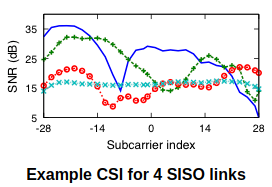
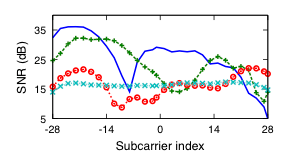
add resized images

diff --git a/index.html b/index.html
@@ -63,7 +63,8 @@
                     </div>
                 </div>
                 <hr>
-                <p style="line-height:25px;color: #000000">I am a senior student at <a href="http://www.tsinghua.edu.cn/publish/eeen/index.html" target="_blank">Electronic Engineering</a>, Tsinghua University. Currently, I am a student intern in <a href="http://biorobotics.ri.cmu.edu/index.php" target="_blank">biorobotics lab</a>, Carnegie Mellon University.<br /></p> 
+                <p style="line-height:25px;color: #000000">I am a senior student at <a href="http://www.tsinghua.edu.cn/publish/eeen/index.html" target="_blank">Electronic Engineering</a>, Tsinghua University. Currently, I am a student intern in <a href="http://biorobotics.ri.cmu.edu/index.php" target="_blank">biorobotics lab</a>, Carnegie Mellon University.<br />My research interest mainly lies in the intersection between robotics and computer science, especially robotic perception based on machine learning, and the statistical data analysis of the robot systems. 
+                </p> 
 
                 <!-- Research experience -->
                 <div class="row">
@@ -79,14 +80,16 @@
                 <div class="row">
                     <div class="col-md-3">
                         <a>
-                            <img class="img-responsive" src="./SRT_CSI/csi.png" width="300" height="200"/>
+                            <img class="img-responsive" src="./SRT_CSI/csi_resize.png" width="300" height="200"/>
                         </a>
                     </div>
 
                     <div class="col-md-9">
                         <h5><font color=#000000><div style="line-height:15px"><strong>Gesture recognition based on CSI</strong></div></font></h5>
-                        <p style="line-height:20px">Advisor: Yuan He| Department of Software | Tsinghua University <br> This project aims at detecting and recognizing human gestures based on WIFI channal signal information. We used a PCA and dwt based feature extraction method to extract discriminate feature from the 30 dimensional WIFI signal, and then we trained a SVM classifier to recognize the specific 9 gestures. </p>
-                        <p style="line-height:10px;color: #000000"><strong>[</strong><a href="https://github.com/fuying-wang/Sphereface-MegaFace" target="_blank">report</a><strong>][</strong><a href="https://github.com/fuying-wang/Sphereface-MegaFace" target="_blank">code</a><strong>]</strong></p>
+                        <p style="line-height:20px">
+                        </p> Advisor: Yuan He | Department of Software | Tsinghua University <br>
+                        <p style="line-height:20px;color: #000000"> This project aims at detecting and recognizing human gestures based on WIFI channal signal information. We used a PCA and dwt based feature extraction method to extract discriminate feature from the 30 dimensional WIFI signal, and then we trained a SVM classifier to recognize the specific 9 gestures. </p>
+                        <p style="line-height:10px;color: #000000"><strong>[</strong><a href="https://github.com/fuying-wang/Gesture-recognition-based-on-CSI" target="_blank">report</a><strong>][</strong><a href="https://github.com/fuying-wang/Gesture-recognition-based-on-CSI" target="_blank">code</a><strong>]</strong></p>
                     </div>
                 </div>
 
@@ -101,9 +104,9 @@
 
                     <div class="col-md-9">
                         <h5><font color=#000000><div style="line-height:15px"><strong>Face recognition and verification</strong></div></font></h5>
-                        <p style="line-height:20px">Advisor: Jiwen Lu | Department of Automation | Tsinghua University <br>I
-                        With the rapid development 
-                        In order to compare face recognition and verification performance, I completed several evaluation experiments of current several deep learning model.</p>
+                        <p style="line-height:20px">Advisor: Jiwen Lu | Department of Automation | Tsinghua University <br>
+                        </p>
+                        <p style="line-height:20px;color: #000000">With the advanced network architectures and the discriminative learning approaches, deep CNNs have boosted the face recognition(FR) performance to unprecedent level. An A-Softmax loss for CNNs was proposed to learning discriminative face features with clear geometric interpretation, which intrinsically matches the prior that faces lie on a spherical manifold. In this project, I mainly evaluated the Sphereface model on the Magaface challenge dataset. </p>
                         <p style="line-height:10px;color: #000000"><strong>[</strong><a href="https://github.com/fuying-wang/Sphereface-MegaFace" target="_blank">report</a><strong>][</strong><a href="https://github.com/fuying-wang/Sphereface-MegaFace" target="_blank">code</a><strong>]</strong></p>
                     </div>
                 </div>
@@ -116,8 +119,9 @@
                     </div>
 
                     <div class="col-md-9">
-                        <h5><font color=#000000><div style="line-height:15px"><strong>Template adaptation evaluation for IJBA dataset</strong></div></font></h5>
-                        <p style="line-height:20px">Advisor: Jiwen Lu | Department of Automation | Tsinghua University <br>This method is very effective when comparing the template-unit dataset, such as IJBA</p>
+                        <h5><font color=#000000><div style="line-height:8px"><strong>Template adaptation evaluation for IJBA dataset</strong></div></font></h5>
+                        <p style="line-height:20px">Advisor: Jiwen Lu | Department of Automation | Tsinghua University <br></p>
+                        <p style="line-height:20px;color: #000000">Traditional evaluation methods of face recognition  mainly focused on one-to-one verification. For the IJB-A face recognition dataset, a template adaptation method was proposed to compare different templates and achieve higher face recognition performance. I mainly evaluated the performance of Sphereface with this templated adaptation on IJB-A face dataset.</p>
                         <p style="line-height:10px;color: #000000"><strong>[</strong><a href="https://github.com/fuying-wang/VggFace2_IJBA_Evaluation" target="_blank">report</a><strong>][</strong><a href="https://github.com/fuying-wang/VggFace2_IJBA_Evaluation" target="_blank">code</a><strong>]</strong></p>
                     </div>
                 </div>
@@ -125,13 +129,13 @@
                 <div class="row">
                     <div class="col-md-3">
                         <a>
-                            <img class="img-responsive" src="./Research3_GAN/introduction.png" width="300" height="200"/>
+                            <img class="img-responsive" src="./Research3_GAN/introduction_resize.png" width="300" height="200"/>
                         </a>
                     </div>
 
                     <div class="col-md-9">
                         <h5><font color=#000000><div style="line-height:15px"><strong>Disentangled representation GAN for Pose-invariant face recognition</strong></div></font></h5>
-                        <p style="line-height:20px">Advisor: Jiwen Lu | Department of Automation | Tsinghua University <br>This project is mainly about generating face images of different poses by given any pose image<br><br><br><br><br><br><br></p>
+                        <p style="line-height:20px;color: #000000">Advisor: Jiwen Lu | Department of Automation | Tsinghua University <br>A disentangled representation generative adversarial network(DR-GAN) was proposed to learn pose-invariant feature from face images. We were interested in reproduce the performance of DR-GAN and tried to improve it on the feature fusion part. <br></p>
                         <p style="line-height:10px;color: #000000"><strong>[</strong>report</a><strong>][</strong>code</a><strong>]</strong></p>
                     </div>
                 </div>

diff --git a/utils/img_resize.py b/utils/img_resize.py
@@ -1,0 +1,20 @@
+from PIL import Image
+
+def main():
+	img_path_list = ["../Research1_face_recognition/introduction.png",
+	"../Research2_template_adaptation/introduction.png",
+	"../Research3_GAN/introduction.png",
+	"../SRT_CSI/csi.png"
+	]
+
+	width, height = 300, 200
+
+	for img in img_path_list:
+		im = Image.open(img)
+		im = im.resize((width, height), Image.ANTIALIAS)
+		im.save(img[:-4] + "_resize.png") 
+
+
+
+if __name__ == '__main__':
+	main()  
